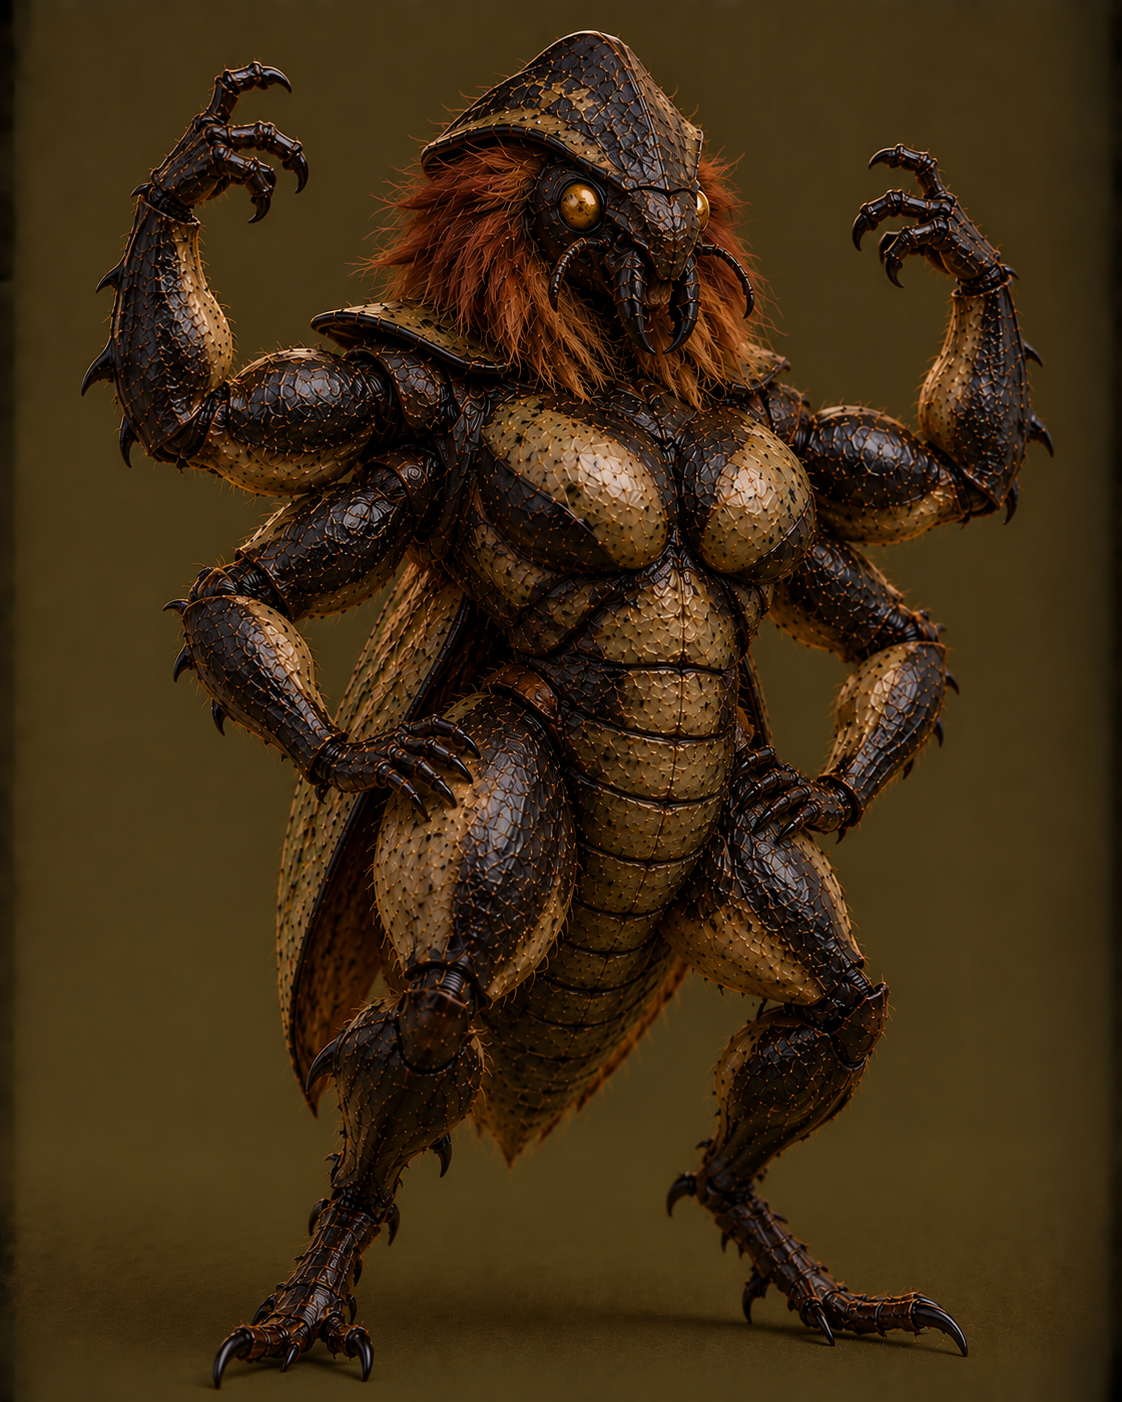
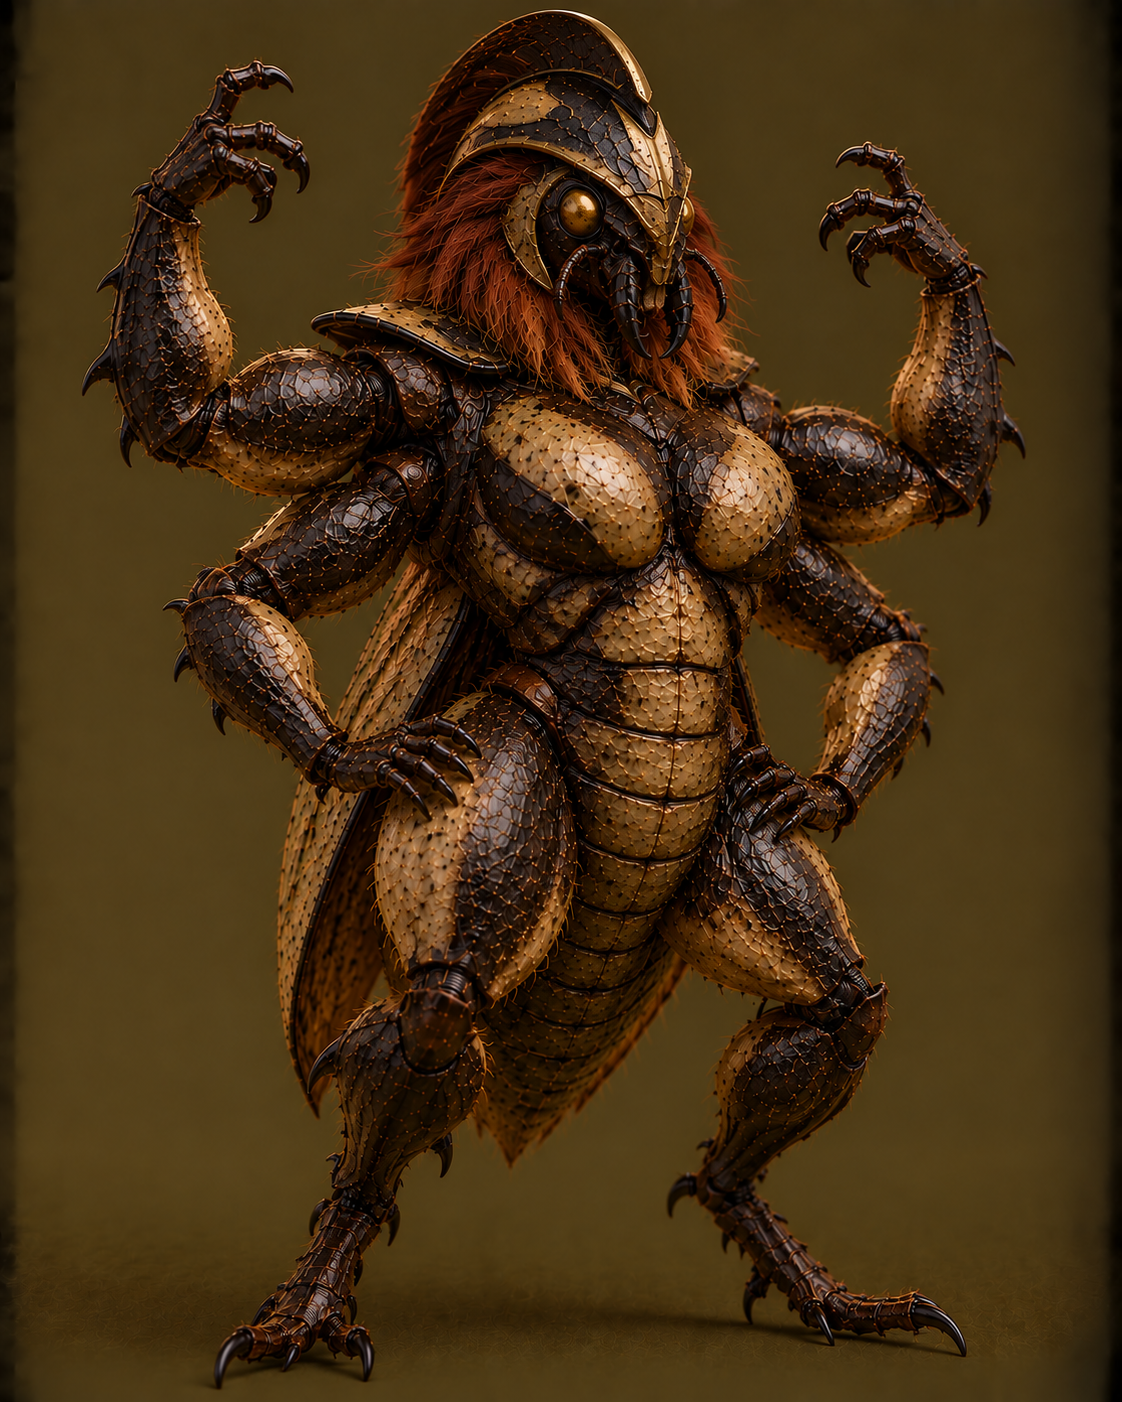
Besouro Golias

diff --git a/src/data/insetos.ts b/src/data/insetos.ts
@@ -2398,9 +2398,90 @@ Quando entra em seu período fértil, ela e a comunidade organizam um grande tor
 Quando chega o momento de colocar seus ovos, Besólita viaja para longe do lugar onde vive e procura uma região com abundância de alimento para sua cria. Deposita seu ovo e parte, mesmo tendo capacidade mais do que suficiente para protegê-lo.
 
 Para ela, isso é necessário. Uma Lourarva criada sob a proteção da mãe aprenderia a confiar na força de Besólita em vez de desenvolver a própria.`;
-const descricaoBarbarva = ``;
-const descricaoDraugrupa = ``;
-const descricaoBersourkor = ``;
+const descricaoBarbarva = `A Barbarva é um inseto extremamente territorial. Logo após nascer, escolhe uma pequena região para chamar de sua e passa grande parte da vida naquele local, cavando túneis e escavando troncos de madeira em decomposição.
+
+É desse território que retira praticamente tudo de que precisa: alimento, abrigo, recursos e pedaços de madeira que transforma em ferramentas de batalha.
+
+O nome Barbarva foi dado por outros insetos, pois a maioria é incapaz de compreender sua linguagem e afirma escutar apenas uma sequência de sons parecidos com “bar, bar, bar”. Insetos que vivem próximos às Barbarvas, entretanto, conseguem aprender a se comunicar com elas e, principalmente, sabem respeitar seus territórios.
+
+Quando um desconhecido invade suas terras, a Barbarva não costuma atacar imediatamente. Primeiro, bate com força seu pedaço de pau contra a casca de madeira que carrega, enquanto reclama em sua língua incompreensível e encara o invasor com seu habitual olhar furioso. Normalmente, esse aviso é suficiente.
+
+Se o invasor não for embora, porém, ela parte para o ataque com grande fúria.
+
+Como seu exoesqueleto ainda não possui a resistência que terá na fase adulta, a Barbarva utiliza uma grossa casca de madeira para se proteger dos golpes. Com o tempo, desenvolve técnicas bastante eficientes de defesa e ataque utilizando sua proteção e seus pedaços de madeira.
+
+Apesar de ainda ser apenas uma larva, pode ser um adversário bastante perigoso.
+
+O recomendado é simplesmente deixá-la em paz.`;
+const descricaoDraugrupa = `No território de uma Barbarva, chega um momento em que ela simplesmente parece desaparecer. Nenhum de seus pertences permanece na superfície e não há qualquer sinal de que ainda esteja por perto, como se tivesse abandonado definitivamente o lugar.
+
+Porém, ao explorar seu território, é possível encontrar túneis recém-escavados que levam até uma câmara subterrânea. É ali que repousa a Draugrupa.
+
+Dentro da câmara estão todos os pertences que acumulou durante sua vida como Barbarva. A Draugrupa permanece imóvel entre eles, mas seus olhos parecem acompanhar constantemente qualquer um que entre no local.
+
+Sua aparência é perturbadora. O corpo possui a coloração e o aspecto de um inseto morto e fossilizado, embora esteja claramente vivo e pareça estar esperando por alguma coisa.
+
+Dizem que, se alguém tentar retirar qualquer objeto de sua câmara, a Draugrupa se levanta e persegue o ladrão até a morte. Verdade ou não, poucos estão dispostos a descobrir. Esse inseto é extremamente apegado a tudo aquilo que conquistou enquanto era uma Barbarva.
+
+Às vezes, quando permanece por muito tempo em sua câmara, é possível ouvir sons grotescos vindos das profundezas de seus túneis.
+
+Em regiões onde os territórios de várias Barbarvas são vizinhos, existem relatos de enormes túneis compartilhados, compostos por diversas câmaras. Cada Draugrupa ocupa a sua própria câmara e protege exclusivamente seus próprios pertences.
+
+Poucos insetos se aventuram nesses lugares.
+
+Dizem que aqueles que o fazem costumam ter pesadelos depois.`;
+const descricaoBersourkor = `O Bersourkor não é o maior dos escaravelhos e muito menos o mais forte, mas certamente está entre os mais furiosos.
+
+Ele costuma permanecer no mesmo território que ocupava durante suas fases anteriores e se torna ainda mais agressivo na fase adulta. Agora, além de possuir um exoesqueleto duro e resistente, um de seus braços termina em uma pesada estrutura de corte. Dizem que um golpe bem aplicado é capaz de partir o exoesqueleto de outro inseto ao meio.
+
+Mesmo com toda essa proteção natural, o Bersourkor continua utilizando sua velha casca de madeira para se defender. A combinação entre ela e seu braço de corte resulta em uma técnica de ataque e defesa impressionante, aperfeiçoada desde os tempos em que ainda era uma Barbarva.
+
+Bersourkors são facilmente irritáveis. Pisar em seu território ou se aproximar demais de seus pertences pode ser suficiente para que alguém seja considerado seu próximo alvo.
+
+Em combate, entram em um estado de fúria quase cega e lutam até o fim. Ferimentos que fariam outros insetos recuar parecem apenas deixá-los ainda mais perigosos. Mesmo gravemente machucado, um Bersourkor continuará lutando da maneira que conseguir.
+
+Apesar de sua fama, eles não são irracionais. Quando abordado com cuidado e respeito, um Bersourkor é perfeitamente capaz de responder da mesma maneira. Alguns chegam a criar fortes vínculos com pequenos grupos de outros insetos e passam a considerá-los parte de seu círculo, embora esse comportamento não seja muito comum.
+
+O Bersourkor raramente abandona seu território. Uma das poucas exceções acontece durante o período reprodutivo, quando alguns indivíduos partem em busca de parceiros.
+
+Quando isso acontece, o melhor é não ficar no caminho.`;
+const descricaoGiglope = `Giglopes nascem no interior de troncos em decomposição e logo começam a se alimentar ferozmente. Conforme devoram a madeira e outros materiais ao seu redor, as passagens abertas no tronco tornam-se sua moradia. Às vezes, ampliam essas passagens até o solo, conectando o tronco a túneis subterrâneos e formando algo semelhante a uma pequena caverna.
+
+Um Giglope se alimenta tanto que cresce enormemente a cada muda, tornando-se uma das maiores e mais pesadas larvas entre os escaravelhos. Conforme cresce, passa a buscar cada vez mais alimentos ricos em proteína, incluindo outros insetos menores. Com seu tamanho avantajado, encontrar presas não costuma ser difícil.
+
+As entradas das moradias dos Giglopes são consideradas lugares perigosos. Muitas vítimas veem apenas seu enorme olho falso surgir na escuridão antes que um inseto menor seja agarrado e arrastado para dentro da toca.
+
+Um Giglope é perfeitamente capaz de conversar e interagir normalmente com outros insetos, mas não é considerado confiável. Se estiver com fome, pode decidir comer até mesmo alguém que confiava nele. Não faz isso por perder o controle, mas porque acredita que o maior tem direito sobre os menores.
+
+Alguns insetos particularmente corajosos desafiam-se a entrar na toca de um Giglope como forma de testar sua própria bravura. Nem todos retornam. Entre muitos Vespaleiros, porém, enfrentar e derrotar um Giglope tornou-se uma espécie de desafio pessoal, criando uma antiga rivalidade entre os dois insetos.`;
+const descricaoGolitauro = `Uma das piores coisas que pode acontecer a um inseto é entrar no labirinto subterrâneo de um Golitauro.
+
+Por algum motivo, próximo de sua transformação, os túneis abaixo do tronco onde vivia o Giglope formam um imenso complexo subterrâneo onde é extremamente fácil se perder. Suas paredes são revestidas por um substrato feito com matéria do próprio tronco, tornando-as sólidas e resistentes. Possivelmente é a mesma técnica que o Giglope utilizava para reforçar os enormes túneis por onde passava.
+
+Ninguém sabe ao certo por que o labirinto existe.
+
+Alguns dizem que ele simplesmente se forma durante a vida do Giglope e só parece complexo para quem não conhece seus caminhos. Outros acreditam que ele o constrói propositalmente para dificultar que alguém encontre seu corpo enquanto se transforma.
+
+Existe ainda uma explicação muito mais assustadora.
+
+Dizem que o labirinto foi feito para que outros insetos entrem e não consigam mais sair. Assim, quando finalmente despertar, o Golitauro já terá sua primeira vítima perdida em algum lugar de seus túneis.
+
+Existe apenas um relato conhecido de um inseto que conseguiu atravessar o labirinto, encontrar o Golitauro e ainda localizar a saída antes que ele despertasse. Segundo seu relato, a criatura permanecia imóvel em uma câmara escondida nas profundezas do complexo.
+
+Era gigantesca, assustadora e incrivelmente dura e resistente.`;
+const descricaoGladolias = `O gigantesco escaravelho Gladolias possui uma fama terrível: eles esmagam por diversão.
+
+Sua alimentação é principalmente frutífera. São excelentes escaladores e conseguem encontrar frutas com facilidade, não tendo mais qualquer necessidade de devorar outros insetos. Isso, porém, não os impede de bater, empurrar ou esmagar algum apenas porque podem.
+
+Gladolias ainda vive em sua complexa toca subterrânea e costuma ser arrogante e desdenhoso com insetos menores. O ideal é manter certa distância de um, pois não é incomum alguém ser simplesmente empurrado para longe sem motivo algum.
+
+Eles também realizam disputas entre si. Durante o período reprodutivo, um macho precisa derrotar a própria fêmea em combate corporal para conquistar o direito de acasalar com ela.
+
+Curiosamente, Gladolias adora competições de luta. É extremamente comum encontrá-los em qualquer evento que envolva combate, principalmente nos torneios realizados por aqueles que eram seus antigos inimigos quando ainda eram Giglopes: os Vespaleiros.
+
+Gladolias parece não se importar mais com a antiga rivalidade.
+
+Desde que tenha a oportunidade de subjugar um adversário, pouco importa quem esteja organizando o torneio.`;
 
 const dadosPendentes = {
   caracteristicas: [] as string[],
@@ -3155,6 +3236,46 @@ export const insetos: Inseto[] = [
     tags: ['besouros'],
     evolucoes: [],
     evolucaoDe: [{ insetoId: 'draugrupa', tipo: 'linear' }],
+    tipoEvolucao: 'linear',
+  },
+  {
+    id: 'giglope',
+    nome: 'Giglope',
+    nomeIngles: 'Giglope',
+    imagem: '/images/besouros/giglope.png',
+    descricao: descricaoGiglope,
+    linhagem: 'besouros',
+    estagio: 'forma inicial',
+    ...dadosPendentes,
+    tags: ['besouros'],
+    evolucoes: [{ insetoId: 'golitauro', tipo: 'linear' }],
+  },
+  {
+    id: 'golitauro',
+    nome: 'Golitauro',
+    nomeIngles: 'Golitauro',
+    imagem: '/images/besouros/golitauro.png',
+    descricao: descricaoGolitauro,
+    linhagem: 'besouros',
+    estagio: 'forma casulo',
+    ...dadosPendentes,
+    tags: ['besouros'],
+    evolucoes: [{ insetoId: 'gladolias', tipo: 'linear' }],
+    evolucaoDe: [{ insetoId: 'giglope', tipo: 'linear' }],
+    tipoEvolucao: 'linear',
+  },
+  {
+    id: 'gladolias',
+    nome: 'Gladolias',
+    nomeIngles: 'Gladolias',
+    imagem: '/images/besouros/gladolias.png',
+    descricao: descricaoGladolias,
+    linhagem: 'besouros',
+    estagio: 'forma comum',
+    ...dadosPendentes,
+    tags: ['besouros'],
+    evolucoes: [],
+    evolucaoDe: [{ insetoId: 'golitauro', tipo: 'linear' }],
     tipoEvolucao: 'linear',
   },
   {

diff --git a/src/data/linhagens.ts b/src/data/linhagens.ts
@@ -175,7 +175,7 @@ export const linhagens: Linhagem[] = [
     descricao: descricaoBesouros,
     imagemCapa: '/images/besouros/capa.png',
     tema: '#49505a',
-    criaturas: ['roninfa', 'gusokulo', 'kabutouro', 'lourarva','pupumento','besocles','besolita', 'barbarva', 'draugrupa', 'bersourkor'],
+    criaturas: ['roninfa', 'gusokulo', 'kabutouro', 'lourarva','pupumento','besocles','besolita', 'barbarva', 'draugrupa', 'bersourkor', 'giglope', 'golitauro', 'gladolias'],
   },
 
   {
